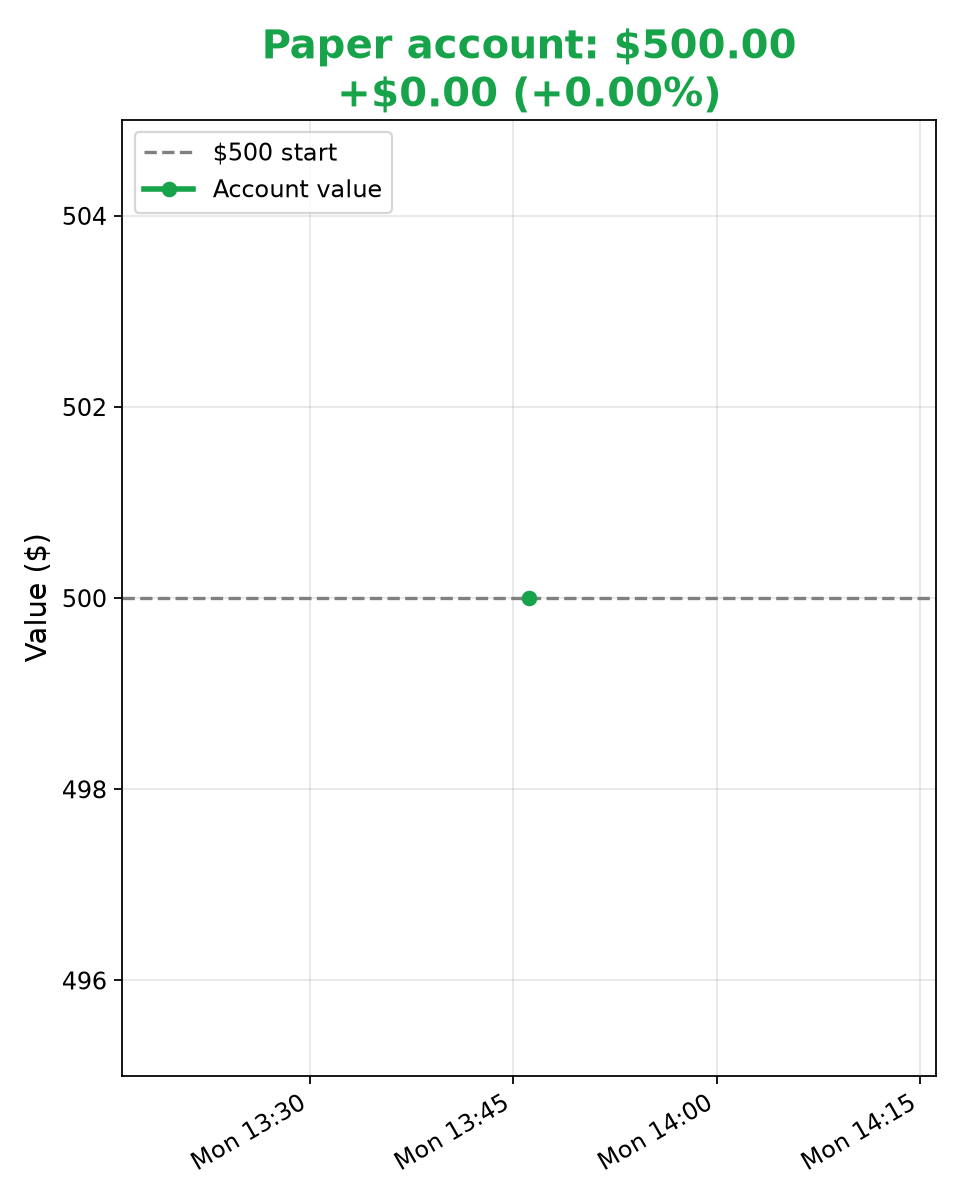
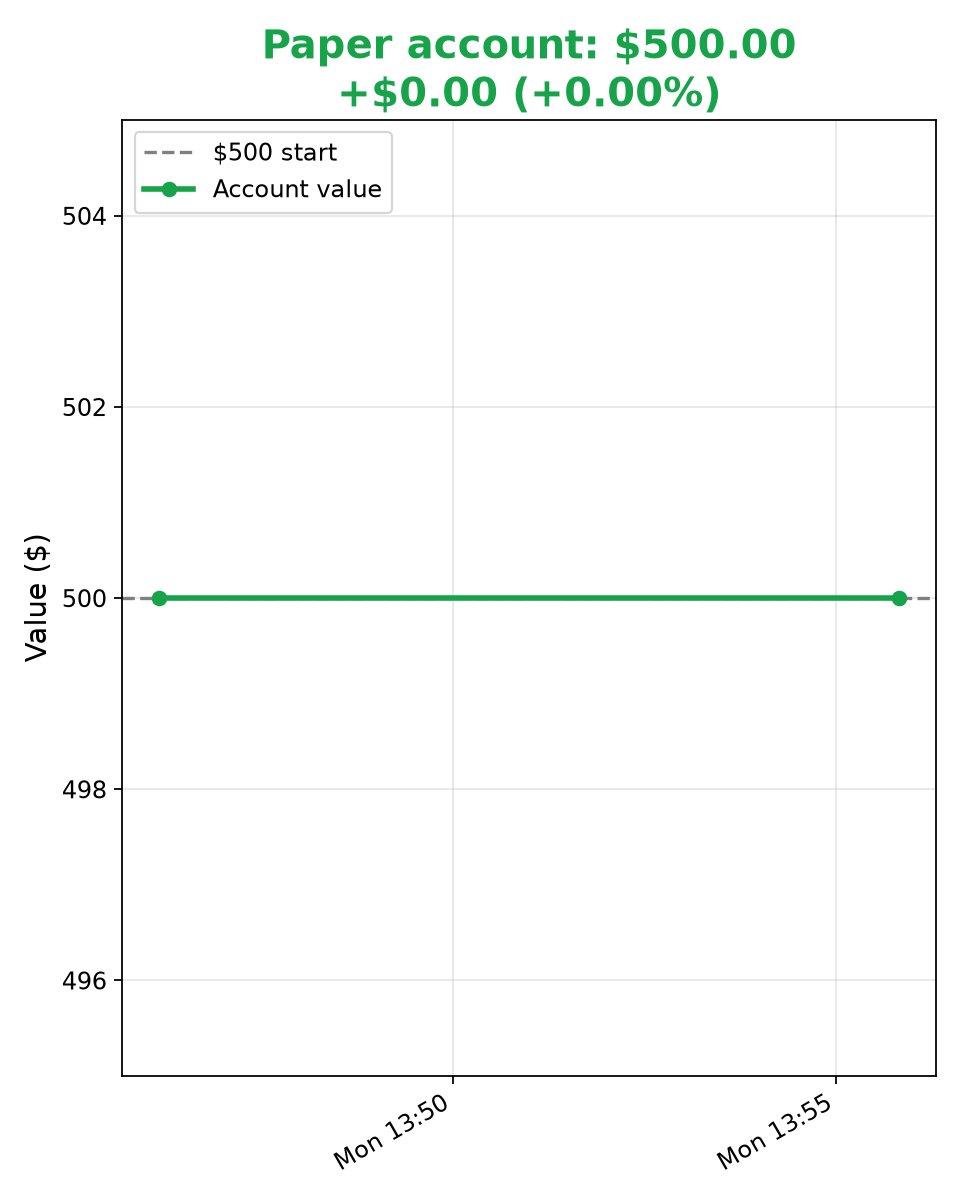
Update 2026-10-12T13:56:04Z

diff --git a/index.html b/index.html
@@ -2,6 +2,13 @@
 <meta http-equiv=refresh content=60><title>Paper Trading Tracker</title>
 <style>body{font-family:system-ui;max-width:700px;margin:auto;padding:12px}img{width:100%}pre{white-space:pre-wrap;background:#f4f4f4;padding:8px;font-size:13px;overflow-x:auto}</style></head><body>
 <h1>Paper account (pretend $500)</h1><h2 style="color:#16a34a">$500.00 &nbsp; +$0.00 (+0.00%)</h2>
-<p>Cash: $500.00 · Updated 2026-10-12T13:46:10Z</p><img src="chart.png?t=2026-10-12T13:46:10Z" alt=chart>
-<h3>Holdings</h3><pre>_None_</pre><h3>Trades log</h3><pre>| time_utc | action | ticker | qty | price | total | reason |
-|---|---|---|---|---|---|---|</pre></body></html>
+<p>Cash: $100.00 · Updated 2026-10-12T13:55:49Z</p><img src="chart.png?t=2026-10-12T13:55:49Z" alt=chart>
+<h3>Holdings</h3><pre>| ticker | qty | avg_cost | cost_basis | stop | target |
+|---|---|---|---|---|---|
+| FRO | 2.6923 | 59.429 | 160.00 | 57.90 | 62.50 |
+| DHT | 5.3131 | 26.35 | 140.00 | 25.40 | 27.80 |
+| ASTS | 1.8765 | 53.29 | 100.00 | 52.40 | 56.50 |</pre><h3>Trades log</h3><pre>| time_utc | action | ticker | qty | price | total | reason |
+|---|---|---|---|---|---|---|
+| 2026-10-12T13:55:49Z | BUY | FRO | 2.6923 | 59.429 | 160.00 | Day gainer +5.9% (prev close 56.10), tanker sector strength alongside DHT; grinding to new intraday highs (last 5m closes 58.77→59.43, HOD 59.53). Momentum continuation. Stop 57.90 (below day low 58.00), target 62.50. Price: Yahoo Finance chart API 13:55 UTC. |
+| 2026-10-12T13:55:49Z | BUY | DHT | 5.3131 | 26.35 | 140.00 | Day gainer +7.0% (prev 24.64), same tanker theme; holding near HOD 26.46 after reclaiming 26.3. Stop 25.40 (under day low 25.50), target 27.80. Price: Yahoo Finance 13:55 UTC. |
+| 2026-10-12T13:55:49Z | BUY | ASTS | 1.8765 | 53.29 | 100.00 | +4.4% gainer, heavy volume (~7M shares in 25 min). Pulled back from HOD 54.67, holding above day low 52.81 — smaller size since momentum fading. Stop 52.40, target 56.50. Price: Yahoo Finance 13:55 UTC. |</pre></body></html>

diff --git a/ledger.md b/ledger.md
@@ -2,14 +2,22 @@
 
 - Start: Mon Oct 12 2026
 - Starting capital: $500.00
-- Cash: $500.00
+- Cash: $100.00
 
 ## Holdings
-_None_
+| ticker | qty | avg_cost | cost_basis | stop | target |
+|---|---|---|---|---|---|
+| FRO | 2.6923 | 59.429 | 160.00 | 57.90 | 62.50 |
+| DHT | 5.3131 | 26.35 | 140.00 | 25.40 | 27.80 |
+| ASTS | 1.8765 | 53.29 | 100.00 | 52.40 | 56.50 |
 
 ## Trades log
 | time_utc | action | ticker | qty | price | total | reason |
 |---|---|---|---|---|---|---|
+| 2026-10-12T13:55:49Z | BUY | FRO | 2.6923 | 59.429 | 160.00 | Day gainer +5.9% (prev close 56.10), tanker sector strength alongside DHT; grinding to new intraday highs (last 5m closes 58.77→59.43, HOD 59.53). Momentum continuation. Stop 57.90 (below day low 58.00), target 62.50. Price: Yahoo Finance chart API 13:55 UTC. |
+| 2026-10-12T13:55:49Z | BUY | DHT | 5.3131 | 26.35 | 140.00 | Day gainer +7.0% (prev 24.64), same tanker theme; holding near HOD 26.46 after reclaiming 26.3. Stop 25.40 (under day low 25.50), target 27.80. Price: Yahoo Finance 13:55 UTC. |
+| 2026-10-12T13:55:49Z | BUY | ASTS | 1.8765 | 53.29 | 100.00 | +4.4% gainer, heavy volume (~7M shares in 25 min). Pulled back from HOD 54.67, holding above day low 52.81 — smaller size since momentum fading. Stop 52.40, target 56.50. Price: Yahoo Finance 13:55 UTC. |
 
 ## Value history (append-only)
 - 2026-10-12T13:46:10Z — total $500.00, cash $500.00
+- 2026-10-12T13:55:49Z — total $500.00, cash $100.00 (opened FRO, DHT, ASTS)
